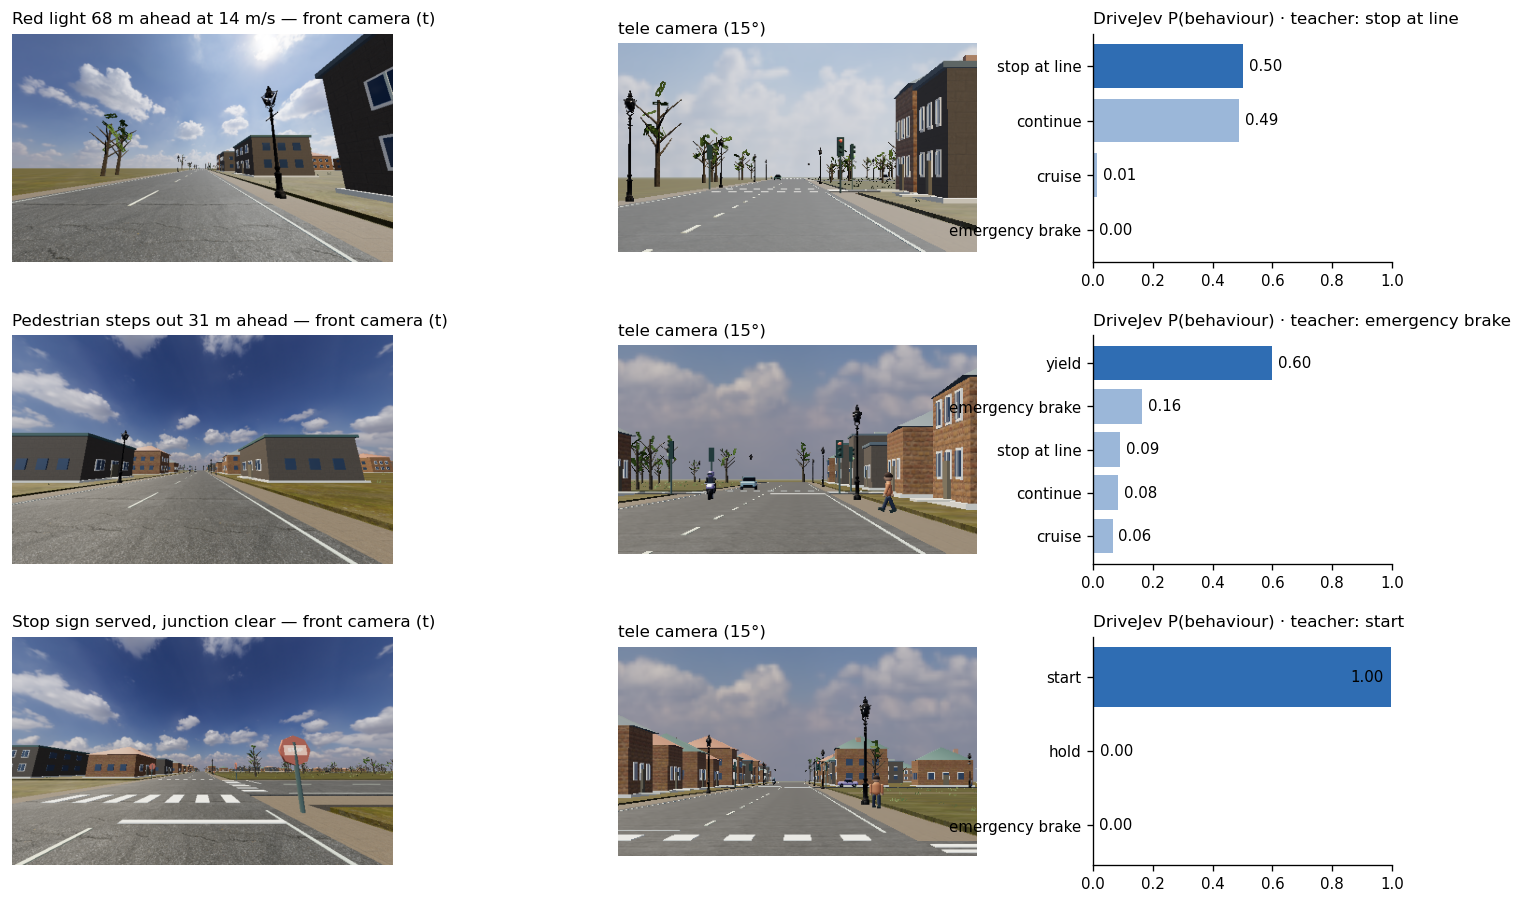
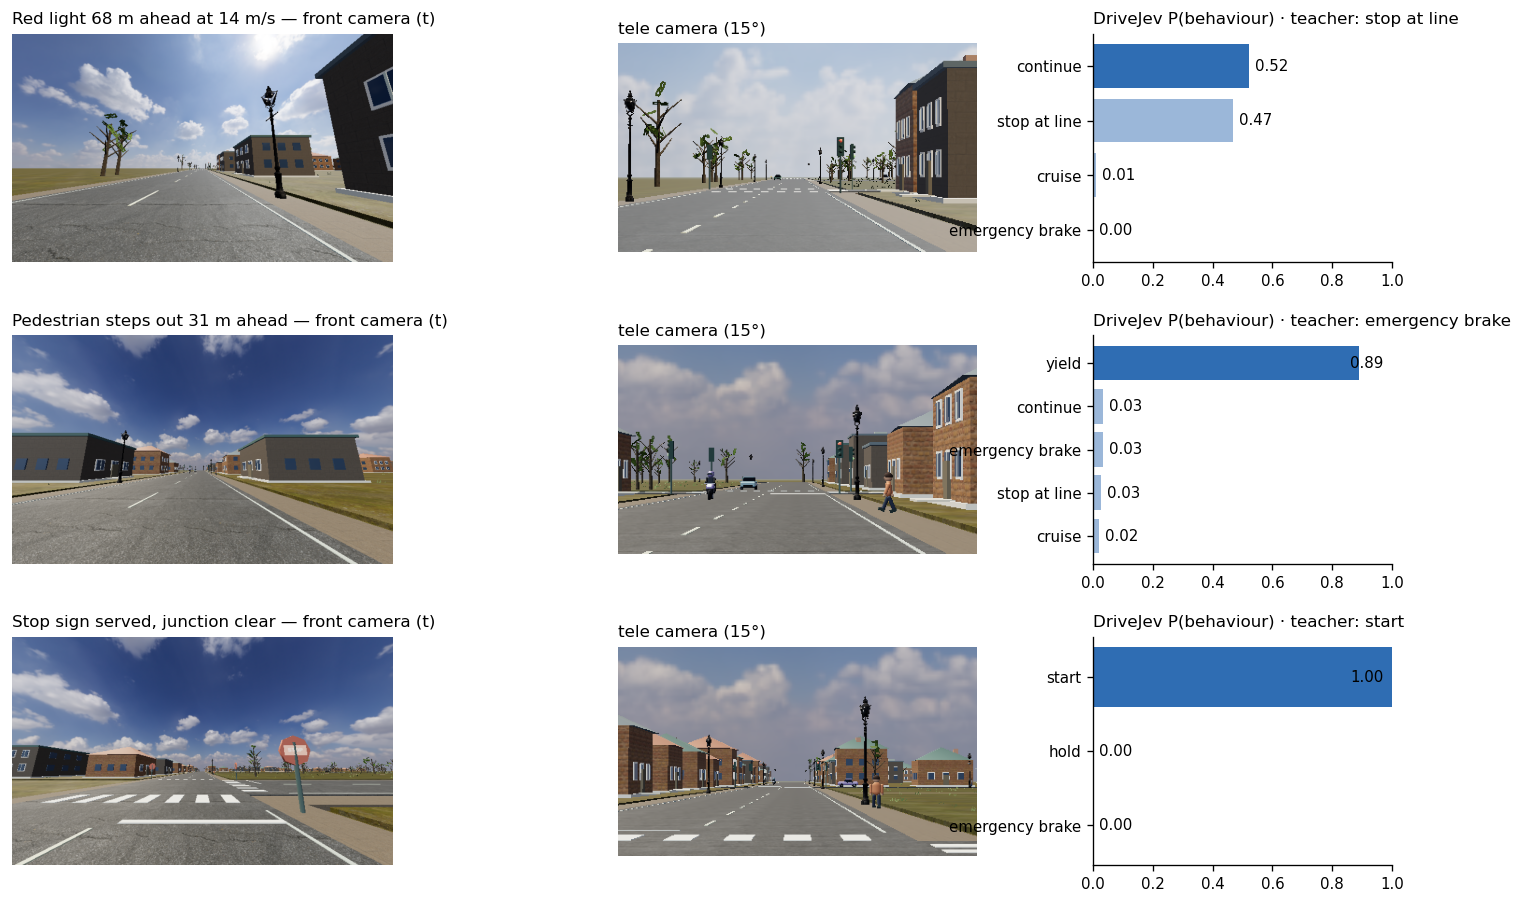
Round-4 model (DAgger round 3): results, teaser, evaluation docs
The released head is now round 4 (chosen on the 30-episode validation suite by the
pre-registered rule). README/docs report round 3 alongside for comparison.

diff --git a/README.md b/README.md
@@ -10,7 +10,7 @@
 </p>
 
 <p align="center">
-  <img src="assets/teaser.png" alt="DriveJev driving in JevPilot" width="90%">
+  <img src="assets/teaser.png" alt="Three DriveJev decisions: front camera, tele camera and behaviour probabilities" width="90%">
 </p>
 
 > [!IMPORTANT]
@@ -46,12 +46,13 @@ towns, cities and on the interstate, with traffic, pedestrians, traffic lights, 
 
 - 🚦 **The whole JevPilot world**, not one scripted junction: signals, stop signs (full stop + right of way), queues,
   turns, the interstate, and three hazard families (jaywalker, red-light runner, hard-braking lead) — 22/28 clean
-  test drives (82 % with AEB) against 4/28 for the earlier prototype.
+  test drives (95 % route completion, 99 % with AEB) against 4/28 for the earlier prototype.
 - 🎯 **A distribution, not free text.** Every decision is a probability over the behaviours that are executable
   at that instant; IDs never appear in the prompt and candidates are ordered canonically.
 - 🔁 **Closed-loop data.** A privileged world-rollout teacher labels states visited by the teacher *and* by the model
   itself (DAgger), so the model learns to recover from its own mistakes.
-- ⏱ **Real time.** 133 ms median end-to-end per decision on one RTX 5090; in real-time runs 3.9 of the 4 decisions per second are applied while the world keeps moving.
+- ⏱ **Real time.** 132 ms median end-to-end per decision on one RTX 5090; in real-time runs 3.9 of the 4 decisions
+  per second are applied while the world keeps moving.
 
 ## Results
 
@@ -63,14 +64,16 @@ no collision and no violation (red light, amber that could still be stopped for,
 | Policy | Inputs | Success ↑ | Collisions ↓ | Violations ↓ | Route done | Stuck s/ep ↓ | Mean speed m/s |
 |---|---|---|---|---|---|---|---|
 | Reference teacher (privileged, upper bound) | simulator truth + world rollouts | 96% <sub>[89, 100]</sub> (27/28) | 0 | 0 | 99% | 0.3 | 9.0 |
-| Earlier prototype (head trained on empty-road signal clips, original executor) | 2 wide frames + small state | 4% <sub>[0, 11]</sub> (1/28) | 12 | 38 | 70% | 9.3 | 7.9 |
+| Earlier prototype, no safety brake | 2 wide frames + small state | 4% <sub>[0, 11]</sub> (1/28) | 12 | 38 | 70% | 9.3 | 7.9 |
 | Earlier prototype + JevPilot safety brake | 2 wide frames + small state | 14% <sub>[4, 29]</sub> (4/28) | 0 | 51 | 91% | 18.3 | 6.8 |
 | State-only policy (no camera, same labels) | state JSON | 11% <sub>[0, 21]</sub> (3/28) | 4 | 51 | 88% | 8.1 | 7.1 |
-| DriveJev, no DAgger (round-1 data only) | 3 frames + state | 57% <sub>[39, 75]</sub> (16/28) | 0 | 6 | 84% | 24.0 | 6.3 |
-| DriveJev, linear pointer head | 3 frames + state | 86% <sub>[71, 96]</sub> (24/28) | 1 | 4 | 97% | 0.3 | 9.5 |
-| DriveJev + LoRA r16 on the language layers (not adopted) | 3 frames + state | 71% <sub>[54, 89]</sub> (20/28) | 4 | 4 | 90% | 0.2 | 9.4 |
-| **DriveJev (ours)** | 3 frames + state | 79% <sub>[61, 93]</sub> (22/28) | 3 | 8 | 94% | 0.5 | 9.3 |
-| DriveJev (ours) + AEB | 3 frames + state | 82% <sub>[68, 96]</sub> (23/28) | 1 | 11 | 99% | 0.6 | 9.1 |
+| DriveJev round 1 (no DAgger) | 3 frames + state | 57% <sub>[39, 75]</sub> (16/28) | 0 | 6 | 84% | 24.0 | 6.3 |
+| DriveJev round 3 (2 DAgger rounds) | 3 frames + state | 79% <sub>[61, 93]</sub> (22/28) | 3 | 8 | 94% | 0.5 | 9.3 |
+| DriveJev round 3, linear pointer head | 3 frames + state | 86% <sub>[71, 96]</sub> (24/28) | 1 | 4 | 97% | 0.3 | 9.5 |
+| DriveJev round 3 + LoRA r16 (not adopted) | 3 frames + state | 71% <sub>[54, 89]</sub> (20/28) | 4 | 4 | 90% | 0.2 | 9.4 |
+| **DriveJev (ours, round 4)** | 3 frames + state | 79% <sub>[61, 93]</sub> (22/28) | 2 | 5 | 95% | 0.3 | 9.4 |
+| DriveJev (ours) + AEB | 3 frames + state | 79% <sub>[61, 93]</sub> (22/28) | 1 | 6 | 99% | 0.2 | 9.3 |
+| DriveJev round 3 + AEB | 3 frames + state | 82% <sub>[68, 96]</sub> (23/28) | 1 | 11 | 99% | 0.6 | 9.1 |
 
 Per scenario (successes / episodes):
 
@@ -80,38 +83,45 @@ Per scenario (successes / episodes):
 | Earlier prototype, no safety brake | 0/8 | 1/8 | 0/5 | 0/5 | 0/2 |
 | Earlier prototype + JevPilot safety brake | 2/8 | 1/8 | 0/5 | 1/5 | 0/2 |
 | State-only policy (no camera, same labels) | 0/8 | 1/8 | 0/5 | 0/5 | 2/2 |
-| DriveJev, no DAgger (round-1 data only) | 5/8 | 5/8 | 1/5 | 3/5 | 2/2 |
-| DriveJev, linear pointer head | 6/8 | 8/8 | 4/5 | 4/5 | 2/2 |
-| DriveJev + LoRA r16 on the language layers (not adopted) | 7/8 | 6/8 | 2/5 | 3/5 | 2/2 |
-| **DriveJev (ours)** | 7/8 | 7/8 | 4/5 | 2/5 | 2/2 |
-| DriveJev (ours) + AEB | 7/8 | 7/8 | 4/5 | 3/5 | 2/2 |
+| DriveJev round 1 (no DAgger) | 5/8 | 5/8 | 1/5 | 3/5 | 2/2 |
+| DriveJev round 3 (2 DAgger rounds) | 7/8 | 7/8 | 4/5 | 2/5 | 2/2 |
+| DriveJev round 3, linear pointer head | 6/8 | 8/8 | 4/5 | 4/5 | 2/2 |
+| DriveJev round 3 + LoRA r16 (not adopted) | 7/8 | 6/8 | 2/5 | 3/5 | 2/2 |
+| **DriveJev (ours, round 4)** | 5/8 | 8/8 | 3/5 | 4/5 | 2/2 |
+| DriveJev (ours) + AEB | 6/8 | 7/8 | 4/5 | 3/5 | 2/2 |
+| DriveJev round 3 + AEB | 7/8 | 7/8 | 4/5 | 3/5 | 2/2 |
 
 - **From 4/28 to 22/28.** The earlier prototype (same frozen backbone; a head trained only on empty-road traffic-light
-  clips; the original executor without ACC or yielding) only finishes routes when JevPilot's own safety brake handles every vehicle; without it, it collides in 12 of 28
-  episodes. It also rolls through stop signs (26 front-bumper events) and waits up to 109 s at junctions.
+  clips; the original executor without ACC or yielding) only finishes routes when JevPilot's own safety brake handles
+  every vehicle; without it, it collides in 12 of 28 episodes. It also rolls through stop signs (26 front-bumper
+  events) and waits up to 109 s at junctions.
 - **Vision matters.** The same labels with the state JSON alone (no camera) give 3/28 and 51 violations: the signal
   phase and the start of a hazard are only visible in the images.
-- **DAgger matters.** Without the two rounds in which DriveJev drove and the teacher relabelled its states, the
-  model hesitates at served stop signs (24 s per episode "stuck"); with them, stuck time drops to the teacher's level.
-- **Head choice.** The released head (`pointer_mlp`) was chosen on the validation suite; on the test suite the
-  linear `pointer` head trained on the same data does as well or better (24/28 vs 22/28, overlapping intervals).
-- **LoRA.** Fine-tuning the language layers end to end (rank 16, 9 k decisions, initialised from the released head) did
-  not help in closed loop (validation 10/15 with more collisions; test 20/28), so DriveJev 1.0 keeps the backbone
+- **DAgger matters.** Without the rounds in which DriveJev drove and the teacher relabelled its states, the model
+  hesitates at served stop signs (24 s per episode "stuck"); with them, stuck time drops to the teacher's level.
+- **Model choice.** Every choice was made on validation seeds only (head type, DAgger round, LoRA). The released
+  round-4 head tied round 3 on the 30-episode validation suite (21/30) with fewer collisions + violations; on the
+  test suite both reach 22/28, round 4 with fewer collisions (2 vs 3) and violations (5 vs 8). The round-3 linear
+  head scores 24/28 on test — inside the same confidence interval.
+- **LoRA.** Fine-tuning the language layers end to end (rank 16, 9 k decisions, initialised from the round-3 head) did
+  not help in closed loop (validation tie with more collisions; test 20/28), so DriveJev 1.0 keeps the backbone
   frozen. `tools/export_hf.py --lora` merges such adapters when they do help.
-- **What is left.** Remaining failures are crossing on red/amber at 5–7 m/s after a late decision to stop, one rolled
-  stop sign (0.8 m/s), and red-light runners hidden by city buildings until ~11 m.
+- **What is left.** Remaining failures are crossing on red/amber at 4–10 m/s after a late decision to stop, contact
+  with a turning NPC car, and red-light runners that appear (often from behind city buildings) about one second
+  before the conflict.
 
-| Real-time closed loop (8 test episodes, 1 worker) | Success | Collisions | Violations | Applied decisions | Latency p50 / p95 |
-|---|---|---|---|---|---|
-| DriveJev (ours) | 6/8 | 0 | 5 | 3.94 Hz | 133 / 141 ms |
+| Real-time closed loop (8 test episodes, 1 worker) | Success | Collisions | Violations | Applied decisions | Latency p50 / p95 | Same 8 seeds, batch |
+|---|---|---|---|---|---|---|
+| DriveJev (ours, round 4) | 4/8 | 2 | 6 | 3.93 Hz | 132 / 140 ms | 5/8 |
+| DriveJev round 3 | 6/8 | 0 | 5 | 3.94 Hz | 133 / 141 ms | 7/8 |
 
-The same 8 seeds in the batch closed loop give 7/8. In real time the world never waits: physics follows the wall clock at 20 Hz, one request is in flight at a time,
+In real time the world never waits: physics follows the wall clock at 20 Hz, one request is in flight at a time,
 and answers whose observation is older than 0.5 s are dropped. Latency is measured end to end from the browser.
+Eight episodes are too few to separate the two models; both run at the full 4 Hz decision rate.
 
 > Offline agreement with the teacher on held-out validation states is ~98 % for every variant — including the
 > state-only ablation — because the current behaviour is part of the state and copying it is usually right. It does
 > not separate good from bad policies; all comparisons above are closed-loop.
-
 
 ## Models
 
@@ -171,7 +181,7 @@ record = {
                {"camera": "front_tele", "relative_time": 0, "path": "tele_t0.png"}],
 }
 out = policy.predict(record)
-print(out["candidate_id"], out["probabilities"])   # e.g. stop_at_line {'stop_at_line': 0.97, ...}
+print(out["candidate_id"], out["probabilities"])   # chosen behaviour + a probability for every offered one
 ```
 
 The HTTP service used by the simulator and the demo takes the same record with base64 PNGs:
@@ -200,7 +210,7 @@ worker for real-time runs so that measured latency is not inflated by other epis
 
 ## Live demo
 
-<p align="center"><img src="demo/screenshots/drivejev-city-hazard.png" alt="DriveJev yielding to a jaywalker in the JevPilot city demo" width="85%"><br><sub>Skyline City with hazards on: a pedestrian steps into the road and DriveJev chooses <i>yield</i> (96 %). The panel shows the model input (wide t, wide t−0.5 s, tele t), the state it read and the probability of every offered behaviour.</sub></p>
+<p align="center"><img src="demo/screenshots/drivejev-city-hazard.png" alt="DriveJev yielding to a jaywalker in the JevPilot city demo" width="85%"><br><sub>Skyline City with hazards on: a pedestrian steps into the road and DriveJev (round-3 head) chooses <i>yield</i> (96 %). The panel shows the model input (wide t, wide t−0.5 s, tele t), the state it read and the probability of every offered behaviour.</sub></p>
 
 ```bash
 DRIVEJEV_MODEL=benmagnifico/DriveJev-4B bash demo/start.sh      # model service :9031 + web app :9030

diff --git a/docs/evaluation.md b/docs/evaluation.md
@@ -39,11 +39,13 @@ python eval/summarize.py runs/test-ours
 | Earlier prototype, no safety brake | 2 wide frames + small state | 4% <sub>[0, 11]</sub> (1/28) | 12 | 38 | 70% | 9.3 | 7.9 |
 | Earlier prototype + JevPilot safety brake | 2 wide frames + small state | 14% <sub>[4, 29]</sub> (4/28) | 0 | 51 | 91% | 18.3 | 6.8 |
 | State-only policy (no camera, same labels) | state JSON | 11% <sub>[0, 21]</sub> (3/28) | 4 | 51 | 88% | 8.1 | 7.1 |
-| DriveJev, no DAgger (round-1 data only) | 3 frames + state | 57% <sub>[39, 75]</sub> (16/28) | 0 | 6 | 84% | 24.0 | 6.3 |
-| DriveJev, linear pointer head | 3 frames + state | 86% <sub>[71, 96]</sub> (24/28) | 1 | 4 | 97% | 0.3 | 9.5 |
-| DriveJev + LoRA r16 on the language layers (not adopted) | 3 frames + state | 71% <sub>[54, 89]</sub> (20/28) | 4 | 4 | 90% | 0.2 | 9.4 |
-| **DriveJev (ours)** | 3 frames + state | 79% <sub>[61, 93]</sub> (22/28) | 3 | 8 | 94% | 0.5 | 9.3 |
-| DriveJev (ours) + AEB | 3 frames + state | 82% <sub>[68, 96]</sub> (23/28) | 1 | 11 | 99% | 0.6 | 9.1 |
+| DriveJev round 1 (no DAgger) | 3 frames + state | 57% <sub>[39, 75]</sub> (16/28) | 0 | 6 | 84% | 24.0 | 6.3 |
+| DriveJev round 3 (2 DAgger rounds) | 3 frames + state | 79% <sub>[61, 93]</sub> (22/28) | 3 | 8 | 94% | 0.5 | 9.3 |
+| DriveJev round 3, linear pointer head | 3 frames + state | 86% <sub>[71, 96]</sub> (24/28) | 1 | 4 | 97% | 0.3 | 9.5 |
+| DriveJev round 3 + LoRA r16 (not adopted) | 3 frames + state | 71% <sub>[54, 89]</sub> (20/28) | 4 | 4 | 90% | 0.2 | 9.4 |
+| **DriveJev (ours, round 4)** | 3 frames + state | 79% <sub>[61, 93]</sub> (22/28) | 2 | 5 | 95% | 0.3 | 9.4 |
+| DriveJev (ours) + AEB | 3 frames + state | 79% <sub>[61, 93]</sub> (22/28) | 1 | 6 | 99% | 0.2 | 9.3 |
+| DriveJev round 3 + AEB | 3 frames + state | 82% <sub>[68, 96]</sub> (23/28) | 1 | 11 | 99% | 0.6 | 9.1 |
 
 | Policy | town | city | town+hazards | city+hazards | highway |
 |---|---|---|---|---|---|
@@ -51,18 +53,22 @@ python eval/summarize.py runs/test-ours
 | Earlier prototype, no safety brake | 0/8 | 1/8 | 0/5 | 0/5 | 0/2 |
 | Earlier prototype + JevPilot safety brake | 2/8 | 1/8 | 0/5 | 1/5 | 0/2 |
 | State-only policy (no camera, same labels) | 0/8 | 1/8 | 0/5 | 0/5 | 2/2 |
-| DriveJev, no DAgger (round-1 data only) | 5/8 | 5/8 | 1/5 | 3/5 | 2/2 |
-| DriveJev, linear pointer head | 6/8 | 8/8 | 4/5 | 4/5 | 2/2 |
-| DriveJev + LoRA r16 on the language layers (not adopted) | 7/8 | 6/8 | 2/5 | 3/5 | 2/2 |
-| **DriveJev (ours)** | 7/8 | 7/8 | 4/5 | 2/5 | 2/2 |
-| DriveJev (ours) + AEB | 7/8 | 7/8 | 4/5 | 3/5 | 2/2 |
+| DriveJev round 1 (no DAgger) | 5/8 | 5/8 | 1/5 | 3/5 | 2/2 |
+| DriveJev round 3 (2 DAgger rounds) | 7/8 | 7/8 | 4/5 | 2/5 | 2/2 |
+| DriveJev round 3, linear pointer head | 6/8 | 8/8 | 4/5 | 4/5 | 2/2 |
+| DriveJev round 3 + LoRA r16 (not adopted) | 7/8 | 6/8 | 2/5 | 3/5 | 2/2 |
+| **DriveJev (ours, round 4)** | 5/8 | 8/8 | 3/5 | 4/5 | 2/2 |
+| DriveJev (ours) + AEB | 6/8 | 7/8 | 4/5 | 3/5 | 2/2 |
+| DriveJev round 3 + AEB | 7/8 | 7/8 | 4/5 | 3/5 | 2/2 |
 
-| Real-time closed loop (8 test episodes, 1 worker) | Success | Collisions | Violations | Applied decisions | Latency p50 / p95 |
-|---|---|---|---|---|---|
-| DriveJev (ours) | 6/8 | 0 | 5 | 3.94 Hz | 133 / 141 ms |
+| Real-time closed loop (8 test episodes, 1 worker) | Success | Collisions | Violations | Applied decisions | Latency p50 / p95 | Same 8 seeds, batch |
+|---|---|---|---|---|---|---|
+| DriveJev (ours, round 4) | 4/8 | 2 | 6 | 3.93 Hz | 132 / 140 ms | 5/8 |
+| DriveJev round 3 | 6/8 | 0 | 5 | 3.94 Hz | 133 / 141 ms | 7/8 |
 
-AEB was triggered 21 times over the 28 AEB-on episodes. "Earlier prototype + JevPilot safety brake" uses JevPilot's
-own speed envelope (following distance and swept-path conflict braking), the configuration of the original demo.
+AEB was triggered 23 times over the 28 AEB-on episodes of the released model. "Earlier prototype + JevPilot safety
+brake" uses JevPilot's own speed envelope (following distance and swept-path conflict braking), the configuration of
+the original demo.
 
 ## Validation suite (15 episodes) — the data used for every model decision
 
@@ -73,10 +79,20 @@ own speed envelope (following distance and swept-path conflict braking), the con
 | round 1, `pointer` | same | 7/15 | 0 | 9 | 5.2 | 87 % |
 | round 2, `pointer_mlp` | + hazard-dense + DAgger round 1 (53 k) | 10/15 | 2 | 3 | 0.9 | 73 % |
 | round 2, `pointer_mlp`, group decision rule | same | 9/15 | 2 | 5 | 0.4 | 80 % |
-| **round 3, `pointer_mlp` (released)** | + DAgger round 2 (60 k) | **10/15** | **1** | 4 | **0.3** | **87 %** |
+| round 3, `pointer_mlp` | + DAgger round 2 (60 k) | 10/15 | 1 | 4 | 0.3 | 87 % |
 | round 3, `pointer_mlp`, group decision rule | same | 9/15 | 1 | 5 | 0.4 | 87 % |
 | round 3 + LoRA r16 (language layers, 9 k decisions, from the released head) | same | 10/15 | 2 | 3 | 0.3 | 80 % |
 | state-only (no camera) | round-1 data | 2/15 | 3 | 32 | 0.1 | 73 % |
+
+30-episode validation suite (the 15 episodes above + seeds 311015–311029), used to choose the round-4 model:
+
+| Model | Data | Success | Collisions | Violations |
+|---|---|---|---|---|
+| round 3, `pointer_mlp` | 60 k labels | 21/30 | 1 | 10 |
+| **round 4, `pointer_mlp` (released)** | + DAgger round 3 (68 k) | **21/30** | **0** | **8** |
+| round 4, `pointer` | same | 21/30 | 1 | 9 |
+
+Rule fixed before the run: most successes, then fewest collisions + violations, then keep the incumbent.
 
 The LoRA variant was to be adopted only if it beat round 3 on validation (more successes, or equal successes with
 fewer collisions + violations); it tied (10/15, 5 vs 5), so it was not adopted. Its single test run is reported as an
